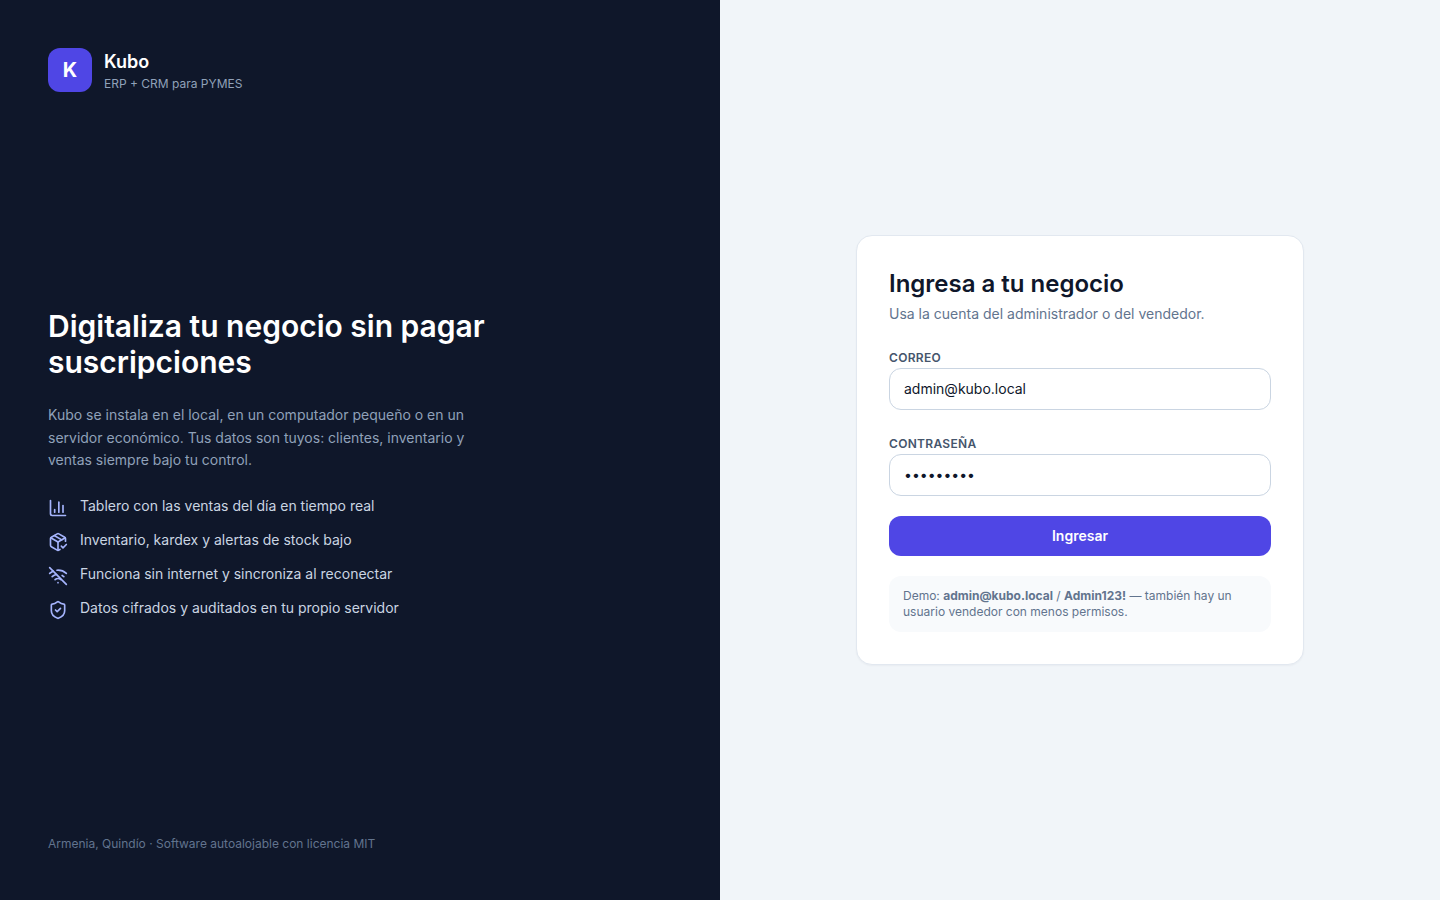
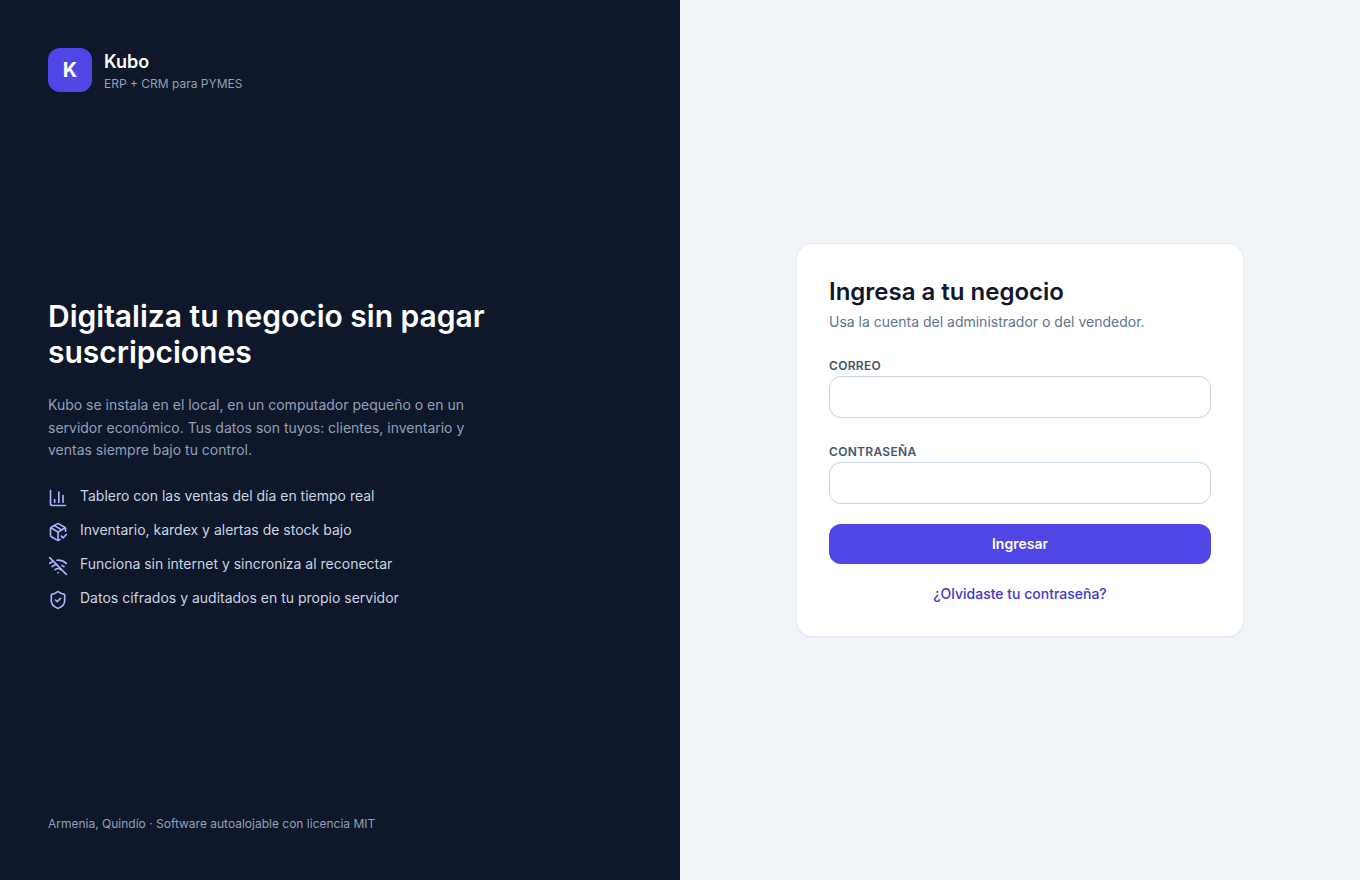
docs: agrega las capturas de evidencia y sincroniza los conteos
- evidencia: capturas 01-09 de la PWA con Playwright (viewport 1360x880) mas
  las salidas reales 05 (cifrado en la base) y 10 (repositorios)
- README de evidencia con la tabla completa y la secuencia reproducible
- 07-pruebas: IAM 79, CRM 20 y total 169 pruebas de servicio; cobertura 85.2 %

diff --git a/evidencia/README.md b/evidencia/README.md
@@ -6,7 +6,20 @@ Capturas y comprobaciones del sistema en ejecución.
 
 | Archivo | Qué muestra |
 | --- | --- |
-| `01-ingreso.png` | Pantalla de ingreso de la PWA, renderizada desde el contenedor `kubo-web` |
+| `01-ingreso.png` | Pantalla de ingreso de la PWA |
+| `02-tablero.png` | Tablero: ventas de hoy, serie de 14 días, top productos y medios de pago |
+| `03-clientes.png` | Listado de clientes con documento y teléfono **enmascarados** |
+| `04-detalle-cliente.png` | Detalle de un cliente: documento y teléfono completos (cifrados en la base) |
+| `05-cifrado-en-base.txt` | Consulta real a PostgreSQL: los campos personales se guardan como `v1:default:…`, ilegibles |
+| `06-productos.png` | Catálogo con precio, IVA, stock y alerta de stock bajo |
+| `07-pos.png` | POS con un producto en el carrito: IVA desagregado y total a cobrar |
+| `08-pos-offline.png` | Venta sin conexión: «Sin internet» y la venta en la cola de sincronización |
+| `09-sincronizacion.png` | Al recuperar la conexión la venta se sincroniza y la cola queda en cero |
+| `10-repositorios.txt` | Los 9 repositorios del workspace (8 hijos + el repositorio raíz) |
+
+Las capturas de interfaz se tomaron con Playwright contra la PWA en
+`http://localhost:3000` (viewport 1360×880) sobre la semilla de demostración; la
+secuencia sigue el guion de [`../09-demo-guion.md`](../09-demo-guion.md).
 
 ## Comprobaciones reproducibles
 
@@ -29,24 +42,3 @@ docker stats --no-stream   # consumo por servicio (~1 GB en total)
 > Antes de grabar el video conviene ejecutar `make reset-demo`: elimina los
 > clientes y productos que dejan las ejecuciones del humo y recarga la semilla,
 > de modo que la demostración muestre solo datos presentables.
-
-## Capturas pendientes (para el video)
-
-Chrome en modo *headless* no completa la restauración de sesión del SPA
-(limitación del navegador sin interfaz, no del sistema), así que las capturas del
-interior se toman desde el navegador real durante la grabación:
-
-| # | Pantalla | Cómo llegar | Qué debe verse |
-| --- | --- | --- | --- |
-| 02 | Tablero | Ingresar con `admin@kubo.local` / `Admin123!` | Ventas de hoy, serie de 14 días, top productos, medios de pago |
-| 03 | Clientes | Menú **Clientes** | Documento enmascarado (`*******432`) |
-| 04 | Detalle de cliente | Clic en un cliente | Documento completo |
-| 05 | Cifrado en la base | `docker exec kubo-postgres psql -U kubo_root -d kubo_crm -c "select name, left(document_number_encrypted,28) from customers limit 3"` | Texto cifrado ilegible |
-| 06 | Productos | Menú **Productos** | Precio, IVA, stock y alerta de stock bajo |
-| 07 | POS | Menú **Vender** con productos en el carrito | Total y IVA desagregado |
-| 08 | Modo sin conexión | Activar modo avión y cobrar | Etiqueta «Sin internet» y venta en cola |
-| 09 | Sincronización | Recuperar la conexión | La venta pendiente desaparece |
-| 10 | Repositorios | `ls -d kubo-*/` | Los 9 repositorios |
-
-La secuencia completa, con tiempos y texto sugerido, está en
-[`../09-demo-guion.md`](../09-demo-guion.md).

diff --git a/07-pruebas.md b/07-pruebas.md
@@ -37,15 +37,15 @@ ejecutarse tantas veces como haga falta.
 ## 2. Pruebas unitarias por servicio
 
 ```bash
-# kubo-iam — 77 pruebas (tokens, identidad, TOTP, plataforma y cobro)
+# kubo-iam — 79 pruebas (tokens, identidad, TOTP, plataforma y cobro)
 # Incluye Testcontainers: PostgreSQL real, migraciones Flyway y RLS.
-# Gate de cobertura JaCoCo ≥ 80 % en application/domain (hoy 85.1 %).
+# Gate de cobertura JaCoCo ≥ 80 % en application/domain (hoy 85.2 %).
 cd kubo-iam && mvn verify
 
 # kubo-gateway — 12 pruebas (rutas, límite de tasa con Redis real, plataforma)
 cd kubo-gateway && npm test
 
-# kubo-crm — 15 pruebas (12 de cifrado + 3 de integración RLS con PostgreSQL)
+# kubo-crm — 20 pruebas (13 de cifrado + 7 de integración con PostgreSQL)
 ./kubo-infra/scripts/crm-tests.sh
 
 # kubo-erp — 50 bloques ExUnit (34 puros + 16 de integración PostgreSQL)
@@ -55,10 +55,10 @@ cd kubo-gateway && npm test
 ./kubo-infra/scripts/analytics-tests.sh
 ```
 
-**Total: 162 pruebas de servicio** (unitarias y de integración) más 184
+**Total: 169 pruebas de servicio** (unitarias y de integración) más 184
 comprobaciones end-to-end, 23 contratos, 5 pruebas de navegador con axe y los
 simulacros de bus y restauración. La cobertura de dominio se vigila en CI:
-IAM ≥ 80 % (JaCoCo, hoy 85.1 %) y analítica ≥ 80 % en su módulo de
+IAM ≥ 80 % (JaCoCo, hoy 85.2 %) y analítica ≥ 80 % en su módulo de
 procesamiento (pytest-cov).
 
 ### Cómo ejecutar cada suite
@@ -72,7 +72,7 @@ make e2e                                      # 5 pruebas de navegador + axe
 make load                                     # 50 cajas, p95 < 300 ms
 make ci                                       # gate completo (10 verificaciones)
 
-./kubo-infra/scripts/crm-tests.sh             # 15 pruebas del CRM
+./kubo-infra/scripts/crm-tests.sh             # 20 pruebas del CRM
 ./kubo-infra/scripts/erp-tests.sh             # 50 bloques del ERP
 ./kubo-infra/scripts/analytics-tests.sh       # 8 pruebas de analitica
 ```
@@ -164,7 +164,7 @@ Lo que sigue abierto, sin bloquear el cierre:
 
 | Tema | Estado |
 | --- | --- |
-| Gate de cobertura en ERP, gateway, CRM y web | IAM (85.1 %, JaCoCo) y analítica (≥ 80 % en procesamiento) lo tienen; los demás miden con pruebas puras, sin umbral |
+| Gate de cobertura en ERP, gateway, CRM y web | IAM (85.2 %, JaCoCo) y analítica (≥ 80 % en procesamiento) lo tienen; los demás miden con pruebas puras, sin umbral |
 | Pruebas unitarias de la PWA | Hoy la interfaz se cubre con E2E y axe; falta vitest para la lógica de cola y offline |
 | Contratos del lado del consumidor (Pact) | El contrato OpenAPI (23 verificaciones contra la API viva) cubre el esquema; Pact queda como mejora |
 | Carga con datos voluminosos | El escenario de 50 cajas usa un catálogo sembrado; falta un perfil con volúmenes de producción |
